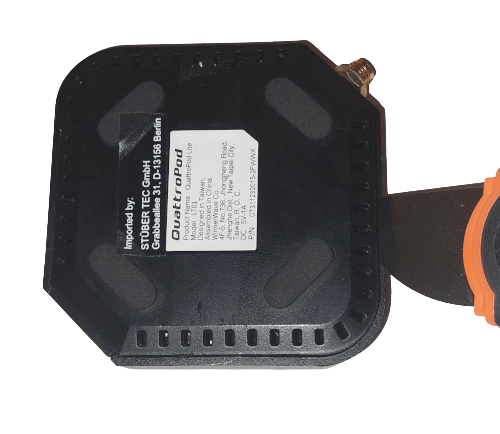
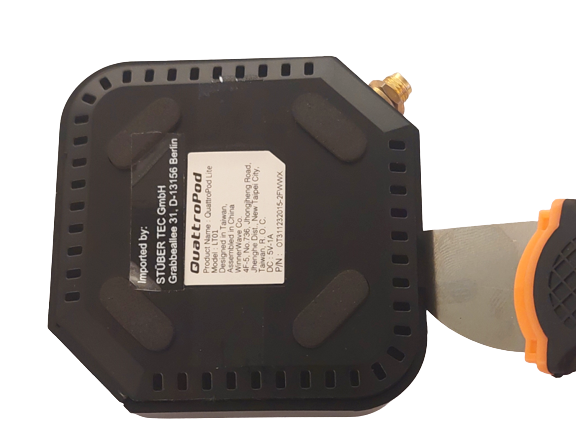
Sender (LT01) - Firmware neu installieren¶

diff --git a/docs/lite/firmware-reinstall.md b/docs/lite/firmware-reinstall.md
@@ -8,21 +8,20 @@ Sie können den QuattroPod wiederherstellen, indem Sie die Firmware manuell neu 
 
 * Sie haben die Wahl: Installieren Sie entweder einfach die neueste Firmware oder eine andere Firmware
 
-## Firmware über USB-Kabel installieren
-
 !!! tip "Hinweis"
 
     Bei einer Neuinstallation der Firmware werden **alle** Einstellungen zurückgesetzt.
-	 
-### Voraussetzung
+	
+## Voraussetzung
 
 * Die Firmware-Update-Software wird nur unter Microsoft Windows unterstützt 
 
-* Der Empfänger muss mit Ihrem Windows-PC per [USB-Kabel (A/A)](https://www.amazon.de/deleyCON-Super-Speed-Kabel-Stecker/dp/B00WHZ746E/ref=sr_1_3?ie=UTF8&qid=1531928442&sr=8-3&keywords=usb+kabel+male+to+male) angeschlossen werden
+* Der Empfänger muss an einen Windows-PC mit einem [USB-Kabel (A/A)](https://www.amazon.de/deleyCON-Super-Speed-Kabel-Stecker/dp/B00WHZ746E/ref=sr_1_3?ie=UTF8&qid=1531928442&sr=8-3&keywords=usb+kabel+male+to+male) angeschlossen werden
 
 ![USB-Kabel-AA](/assets/img/USB-Kabel-AA.jpg)
 
-### Empfänger (LR01) - Firmware neu installieren
+ 
+## Empfänger (LR01) - Firmware neu installieren
 
 ### Repair Tool herunterladen 
 
@@ -63,7 +62,7 @@ Wenn der Treiber richtig installiert ist und der Empfänger angeschlossen ist, s
 
 * Im Ordner `QuattroPod.TR01.Repair.Tool` führen Sie die Datei **EZCastUpdate.exe** aus.
  
-![EZCastUpdate.exe ausführen](/assets/img/TR01.Repair_Tool_Update.exe.png)
+![EZCastUpdate.exe ausführen](/assets/img/LR01.Repair_Tool_Update.exe.png)
 
 Das folgende Fenster erscheint. Wenn der QuattroPod-Empfänger erfolgreich im Update-Modus ist, wird im Tool der Status `Device connected`  angezeigt:
 
@@ -95,79 +94,88 @@ Am Ende der Aktualisierung wird der Status **Upgrade Success** angezeigt:
 
 Schalten Sie den Empfänger aus und wieder ein. Der Empfänger ist wieder einsatzbereit.
 
-### Andere Firmware installieren {#TR01_install_other_fw}
+## Sender (LT01) - Firmware neu installieren
 
-Um eine vorherige bzw. eine Betafirmware zu installieren, laden Sie eine der folgenden Dateien herunter:
+### Repair Tool herunterladen
 
-Firmware                  | Empfänger TR01 | Bemerkung
-------------------------- | ------------ | ------------
-1.14366.135 | [Herunterladen](https://download.stueber.de/doc/de/quattropod/firmwares/LR01/LR01_1.14366.135.gz)
-1.14366.90 | [Herunterladen](https://download.stueber.de/doc/de/quattropod/firmwares/LR01/LR01_1.14366.90.gz)
-1.12412.42 | [Herunterladen](https://download.stueber.de/doc/de/quattropod/firmwares/LR01/LR01_1.12412.42.gz)
-1.12412.27 | [Herunterladen](https://download.stueber.de/doc/de/quattropod/firmwares/LR01/LR01_1.12412.27.gz)
-1.9598.75 | [Herunterladen](https://download.stueber.de/doc/de/quattropod/firmwares/LR01/LR01_1.9598.75.gz)
-1.9598.44 | [Herunterladen](https://download.stueber.de/doc/de/quattropod/firmwares/LR01/LR01_1.9598.44.gz)
-1.8530.15 | [Herunterladen](https://download.stueber.de/doc/de/quattropod/firmwares/LR01/LR01_1.8530.15.gz)
+* Laden Sie das [QuattroPod Lite Sender (LT01) Repair Tool](https://download.stueber.de/doc/de/quattropod/repair_tools/QuattroPod.LT01.Repair.Tool.zip) herunter.
 
-* Im Ordner `QuattroPod.TR01.Repair.Tool` führen Sie die Datei **Update_for_localfile.exe** aus.
+* Extrahieren Sie die Datei **QuattroPod.LT01.Repair.Tool.zip**.
 
-![Update_for_localfile.exe ausführen](/assets/img/TR01.localfile.exe.png)
+![Sender Repair Tool extrahieren](/assets/img/LT01.Repair_Tool_Extract.png)
 
-Das folgende Fenster erscheint. Wenn der QuattroPod im Update-Modus ist, wird im Tool **Device connected** angezeigt.
+* Installieren Sie **die Treiber**, indem Sie die Batchdatei **QuattroPod.LT01.Repair.Tool\usb_driver\install.bat** als Administrator ausführen. 
 
-* Mit Hilfe der Schaltfläche `Firmware` wählen Sie die gewünschte Firmwaredatei aus.
+![install.bat als Administrator ausführen](/assets/img/LT01.install.bat.png) 
 
-![Firmware auswählen](/assets/img/EZCastUpdate.SelectFirmware.png)
+* Wenn die folgende Sicherheitsmeldung erscheint, wählen Sie `Installieren`:
 
-* Um die Installation der Firmware zu starten, wählen Sie `Upgrade`.
+![Klicken Sie auf Installieren, um die Treiber zu installieren](/assets/img/install_drivers.jpg)
 
-![Wählen Sie Upgrade, um die Installation zu starten](/assets/img/EZCastUpdate.localfile.Upgrade.jpg)
+### Sender in den **Update-Modus** versetzen 
 
-Die Firmware wird installiert.
+* Entfernen Sie die Antenne vom Sender:
 
-![Die Firmware wird installiert](/assets/img/EZCastUpdate.Firmware.localfile.Updating.jpg)
+![Sender in den Update-Modus versetzen](/assets/img/QP.lite.remove.antenna.png) 
 
-Wenn die Installation erfolgreich durchgeführt wurde, erscheint die folgende Meldung:
+* Um den Sender in den **Update-Modus** zu versetzen, lösen Sie die Rückseite mit einem Öffnungswerkzeug:
 
-![Die Installation war erfolgreich](/assets/img/EZCastUpdate_localfile.Upgrade.Success.jpg)
+![Sender in den Update-Modus versetzen](/assets/img/QP.lite.open.tx.png) 
 
-Schalten Sie den Empfänger aus und wieder ein. Der Empfänger ist wieder einsatzbereit.
+* Entfernen Sie die 5 Schrauben für das Mainboard:
 
-## Sender - Firmware neu installieren {#LT01_install_other_fw} 
+![Sender in den Update-Modus versetzen](/assets/img/QP.lite.remove.screws.png)
 
-Um die neueste Firmware, eine vorherige bzw. eine Betafirmware zu installieren, laden Sie zuerst eine der folgenden Dateien herunter:
+* Entfernen Sie das Mainboard vorsichtig aus dem Gehäuse und schließen Sie das Micro-USB-Kabel an:
 
-Firmware                  | Empfänger LT01 | Bemerkung
-------------------------- | ------------ | ------------
-1.14366.135 | [Herunterladen](https://download.stueber.de/doc/de/quattropod/firmwares/LT01/LT01_1.14366.135.img)
-1.9598.75 | [Herunterladen](https://download.stueber.de/doc/de/quattropod/firmwares/LT01/LT01_1.9598.75.gz)
+![Sender in den Update-Modus versetzen](/assets/img/QP.lite.connect.usb.png) 
 
-Zum Installieren der Firmware in den QuattroPod Lite-Sender müssen Sie das [CMS](#install_fw_via_cms) nutzen.
+* Mithilfe einer Pinzette halten Sie gedrückt Pin 5 und Pin 6 auf dem mainboard:
 
+![Sender in den Update-Modus versetzen](/assets/img/QP.lite.pin5.-6.a.png) 
 
-## Firmware mit dem CMS installieren {#install_fw_via_cms}
+![Sender in den Update-Modus versetzen](/assets/img/QP.lite.pin5.-6.b.png) 
 
-	
-Mit dem CMS ([Central Management System](cms.md)) kann man nicht nur die aktuelle Firmware vom Internet auf mehreren QuattroPod installieren, sondern auch eine vorherige Version bzw. eine Beta-Firmware.
+* Schließen Sie das USB-Kabel an einen USB-Port Ihres Rechners an. Nach einer Sekunde können Sie die Pinzette vom Mainboard des Senders loslassen.
 
-* Laden Sie eine Firmware für den [Empfänger](#TR01_install_other_fw) oder für den [Sender (Lite)](#LT01_install_other_fw) herunter.
+![Sender in den Update-Modus versetzen](/assets/img/QP.lite.TX.connect.USB.png) 
 
-* Wählen Sie die gewünschten Geräte aus, anschließend klicken Sie auf die Schaltfläche `Remote` -> und die Funktion `Device Firmware upgrade`.
+### Neueste Firmware installieren  {#LT01_install_latest_fw}
 
-![Die Firmware wird installiert](/assets/img/CMS-firmware.upgrade1.png)
-
-* Unter der Registerkarte `FILE`, wählen die Schaltfläche `File` und wählen Sie die Firmwaredatei aus, die Sie im ersten Schritt heruntergeladen haben.
-
-![Die Firmware wird installiert](/assets/img/CMS-firmware.upgrade2.png)
-
-Die neue Firmware wird heruntergeladen und automatisch installiert. 
-
-!!! warning "Achtung"
-    
-	Unterbrechen Sie während des Updates nicht die Stromversorgung.
-
-![](/assets/img/ProIIStick_Firmware_installing.png)
+* Im Ordner `QuattroPod.LT01.Repair.Tool` führen Sie die Datei **EZCastUpdate.exe** aus.
  
+![EZCastUpdate.exe ausführen](/assets/img/LT01.Repair_Tool_Update.exe.png)
+
+Das folgende Fenster erscheint. Wenn der QuattroPod-Empfänger erfolgreich im Update-Modus ist, wird im Tool der Status `Device connected`  angezeigt:
+
+* Wählen Sie `Download`, um die neueste Firmware herunterzuladen.
+ 
+![Die Schaltfläche Download wählen](/assets/img/EZCastUpdate.DeviceConnected.jpg)
+ 
+Das Downloaden der Firmware wird durchgeführt:
+
+!!! tip "Hinweis"
+
+    Sie dürfen den Strom während der Aktualisierung nicht unterbrechen.
+
+![QuattroPod Firmware wird heruntergefahren](/assets/img/EZCastUpdate.Firmware.Downloading.jpg)
+
+* Um die Installation der Firmware zu starten, wählen Sie `Upgrade`:
+
+![Wählen Sie Upgrade, um die Installation zu starten](/assets/img/EZCastUpdate.Upgrade.jpg)
+
+Die Firmware wird installiert:
+
+![Die Firmware wird installiert](/assets/img/EZCastUpdate.Firmware.Updating.jpg)
+
+Am Ende der Aktualisierung wird der Status **Upgrade Success** angezeigt:
+
+* Sie können das USB-Kabel nun herausziehen und den Empfänger neustarten, indem Sie ihn über die Power-Taste aus- und einschalten.
+
+![Die Installation war erfolgreich](/assets/img/EZCastUpdate_Upgrade.Success.jpg)
+
+Sie können nun den Sender vom Computer trennen und die Software schließen.
+
 ## Problembehandlung
 
 ### Fehlermeldung: Tool must be in a directory where there are no spaces

diff --git a/docs/deluxe/firmware-reinstall.md b/docs/deluxe/firmware-reinstall.md
@@ -18,7 +18,7 @@ Sie können den QuattroPod wiederherstellen, indem Sie die Firmware manuell neu 
 
 * Die Firmware-Update-Software wird nur unter Microsoft Windows unterstützt 
 
-* Der Empfänger muss mit Ihrem Windows-PC per [USB-Kabel (A/A)](https://www.amazon.de/deleyCON-Super-Speed-Kabel-Stecker/dp/B00WHZ746E/ref=sr_1_3?ie=UTF8&qid=1531928442&sr=8-3&keywords=usb+kabel+male+to+male) angeschlossen werden
+* Der Empfänger muss an einen Windows-PC mit einem [USB-Kabel (A/A)](https://www.amazon.de/deleyCON-Super-Speed-Kabel-Stecker/dp/B00WHZ746E/ref=sr_1_3?ie=UTF8&qid=1531928442&sr=8-3&keywords=usb+kabel+male+to+male) angeschlossen werden
 
 ![USB-Kabel-AA](/assets/img/USB-Kabel-AA.jpg)
 

diff --git a/docs/mini/firmware-reinstall.md b/docs/mini/firmware-reinstall.md
@@ -18,7 +18,7 @@ Sie können den QuattroPod wiederherstellen, indem Sie die Firmware manuell neu 
 
 * Die Firmware-Update-Software wird nur unter Microsoft Windows unterstützt 
 
-* Der Empfänger muss mit Ihrem Windows-PC per [USB-Kabel (A/A)](https://www.amazon.de/deleyCON-Super-Speed-Kabel-Stecker/dp/B00WHZ746E/ref=sr_1_3?ie=UTF8&qid=1531928442&sr=8-3&keywords=usb+kabel+male+to+male) angeschlossen werden
+* Der Empfänger muss an einen Windows-PC mit einem [USB-Kabel (A/A)](https://www.amazon.de/deleyCON-Super-Speed-Kabel-Stecker/dp/B00WHZ746E/ref=sr_1_3?ie=UTF8&qid=1531928442&sr=8-3&keywords=usb+kabel+male+to+male) angeschlossen werden
 
 ![USB-Kabel-AA](/assets/img/USB-Kabel-AA.jpg)
 

diff --git a/docs/standard/firmware-reinstall.md b/docs/standard/firmware-reinstall.md
@@ -18,7 +18,7 @@ Sie können den QuattroPod wiederherstellen, indem Sie die Firmware manuell neu 
 
 * Die Firmware-Update-Software wird nur unter Microsoft Windows unterstützt 
 
-* Der Empfänger muss mit Ihrem Windows-PC per [USB-Kabel (A/A)](https://www.amazon.de/deleyCON-Super-Speed-Kabel-Stecker/dp/B00WHZ746E/ref=sr_1_3?ie=UTF8&qid=1531928442&sr=8-3&keywords=usb+kabel+male+to+male) angeschlossen werden
+* Der Empfänger muss an einen Windows-PC mit einem [USB-Kabel (A/A)](https://www.amazon.de/deleyCON-Super-Speed-Kabel-Stecker/dp/B00WHZ746E/ref=sr_1_3?ie=UTF8&qid=1531928442&sr=8-3&keywords=usb+kabel+male+to+male) angeschlossen werden
 
 ![USB-Kabel-AA](/assets/img/USB-Kabel-AA.jpg)
 

diff --git a/docs/usb/firmware-reinstall.md b/docs/usb/firmware-reinstall.md
@@ -18,7 +18,7 @@ Sie können den QuattroPod wiederherstellen, indem Sie die Firmware manuell neu 
 
 * Die Firmware-Update-Software wird nur unter Microsoft Windows unterstützt 
 
-* Der Empfänger muss mit Ihrem Windows-PC per [USB-Kabel (A/A)](https://www.amazon.de/deleyCON-Super-Speed-Kabel-Stecker/dp/B00WHZ746E/ref=sr_1_3?ie=UTF8&qid=1531928442&sr=8-3&keywords=usb+kabel+male+to+male) angeschlossen werden
+* Der Empfänger muss an einen Windows-PC mit einem [USB-Kabel (A/A)](https://www.amazon.de/deleyCON-Super-Speed-Kabel-Stecker/dp/B00WHZ746E/ref=sr_1_3?ie=UTF8&qid=1531928442&sr=8-3&keywords=usb+kabel+male+to+male) angeschlossen werden
 
 ![USB-Kabel-AA](/assets/img/USB-Kabel-AA.jpg)
 
